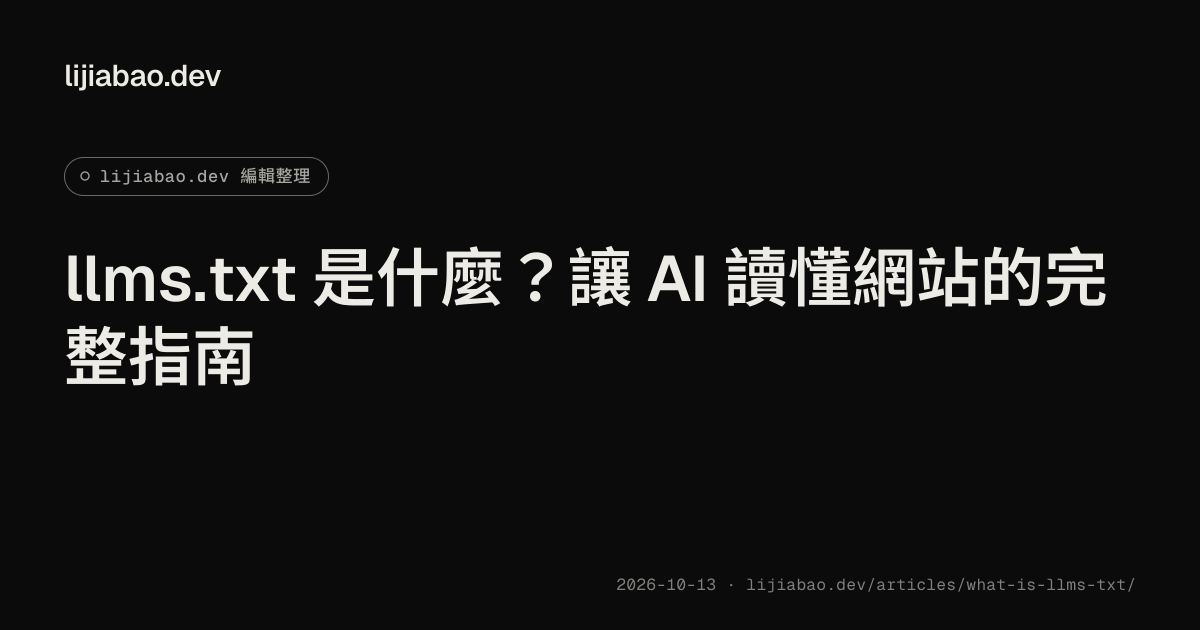
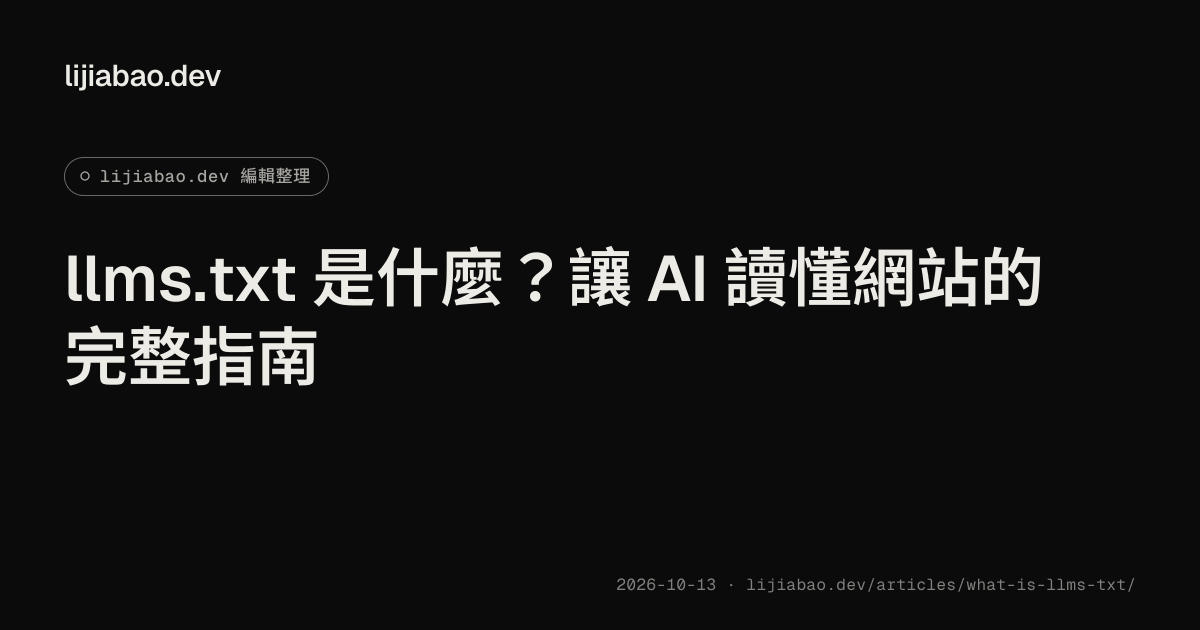
fix(posts): legible figures on phones; OG titles break by word
- scripts/post-figures.mjs (postbuild, before llms): every image in a
  post body links to its full-size file (Astro fixes the final /_astro
  URL only at render time, so the link is added to the built HTML; no
  JavaScript). On narrow screens a hint from the dictionary
  (posts.figure.zoom 「點圖看原尺寸」) shows under the figure: the
  llms.txt article's 1600 px diagrams shrank to ~6 px labels at 375 px.
- markdown.mjs: a link whose only content is an image (a linked figure)
  is written as the image alone (it came out as "[!\[…" ). Test added.
- og.mjs: titles break by word (Intl.Segmenter zh-Hant), so 「完整」
  stays whole; a no-break space still glues "Li Jiabao". The llms.txt
  article's share card is regenerated.

Changed region(s): [[0.0617, 0.5127, 0.2775, 0.6333], [0.8633, 0.3921, 0.925, 0.4825]]

diff --git a/src/i18n/ns/posts.ts b/src/i18n/ns/posts.ts
@@ -39,6 +39,8 @@ const zh = {
   'posts.feed': { zh: 'RSS 訂閱', cls: 'F' },
   // aria-label of the scroll region around each table in a post (src/lib/post-tables.ts); {n} counts from 1
   'posts.table': { zh: '表格 {n}', cls: 'F' },
+  // shown under a post figure on narrow screens; the figure links to its full-size image (scripts/post-figures.mjs)
+  'posts.figure.zoom': { zh: '點圖看原尺寸', cls: 'F' },
   // the link to the same post in the other locale, written in that locale (like lang.switch)
   'posts.other': { zh: [{ lang: 'en', text: 'Read this in English' }], cls: 'F' },
   // the language switch's sr-only sentence when THIS page has no version in the other locale (LangSwitch.astro),
@@ -96,6 +98,7 @@ const en = {
   'posts.sources': 'Sources',
   'posts.feed': 'RSS feed',
   'posts.table': 'Table {n}',
+  'posts.figure.zoom': 'Tap for full size',
   'posts.other': [{ lang: 'zh-Hant', text: '以中文閱讀這一篇' }],
   'lang.switch.post.articles': [{ lang: 'zh-Hant', text: '這篇文章沒有中文版，前往中文文章列表' }],
   'lang.switch.post.views': [{ lang: 'zh-Hant', text: '這篇觀點沒有中文版，前往中文觀點列表' }],

diff --git a/tests/unit/markdown.test.ts b/tests/unit/markdown.test.ts
@@ -92,6 +92,11 @@ describe('mainToMarkdown: posts', () => {
     expect(md('<pre><code>a ``` b</code></pre>')).toBe('~~~~\na ``` b\n~~~~\n');
   });
 
+  it('writes a post figure linked to its full size (scripts/post-figures.mjs) as the image alone', () => {
+    const body = '<div data-post-body><p><a class="fig-zoom" href="/_astro/f.webp" data-hint="點圖看原尺寸"><img src="/_astro/f.webp" alt="A diagram"></a></p></div>';
+    expect(md(body)).toBe('![A diagram](https://lijiabao.dev/_astro/f.webp)\n');
+  });
+
   it('keeps a post\'s rules and images, and skips images everywhere else', () => {
     const body = '<div data-post-body><p>One</p><hr><p><img src="/_astro/a.png" alt="A chart"></p></div>';
     expect(md(body)).toBe('One\n\n---\n\n![A chart](https://lijiabao.dev/_astro/a.png)\n');

diff --git a/src/styles/prose.css b/src/styles/prose.css
@@ -195,6 +195,29 @@
 .prose :is(p, figure) > img {
   margin-block: 0.4em;
 }
+/* a post figure links to its full-size image (scripts/post-figures.mjs): a dense diagram stays legible on a phone */
+.prose .fig-zoom {
+  display: block;
+  margin-block: 0.4em;
+  cursor: zoom-in;
+  text-decoration: none;
+}
+.prose .fig-zoom > img {
+  display: block;
+}
+.prose .fig-zoom::after {
+  display: none;
+  content: attr(data-hint) ' ↗';
+  margin-top: 0.4em;
+  color: var(--fg-3);
+  font-family: var(--ff-mono);
+  font-size: var(--fs-mono);
+}
+@media (max-width: 767.98px) {
+  .prose .fig-zoom::after {
+    display: block;
+  }
+}
 .prose hr {
   margin-block: 2.6em;
 }
